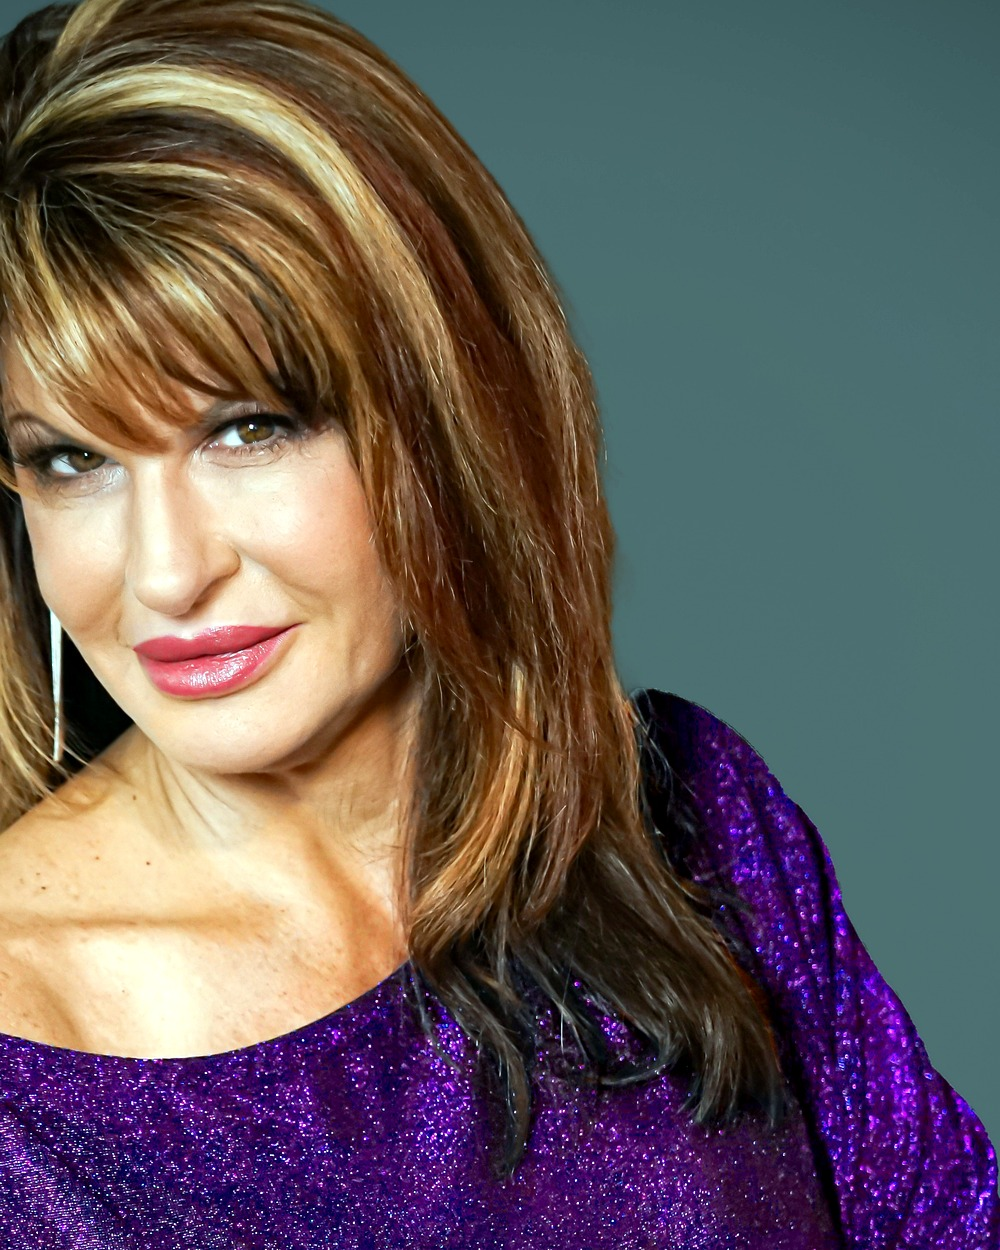
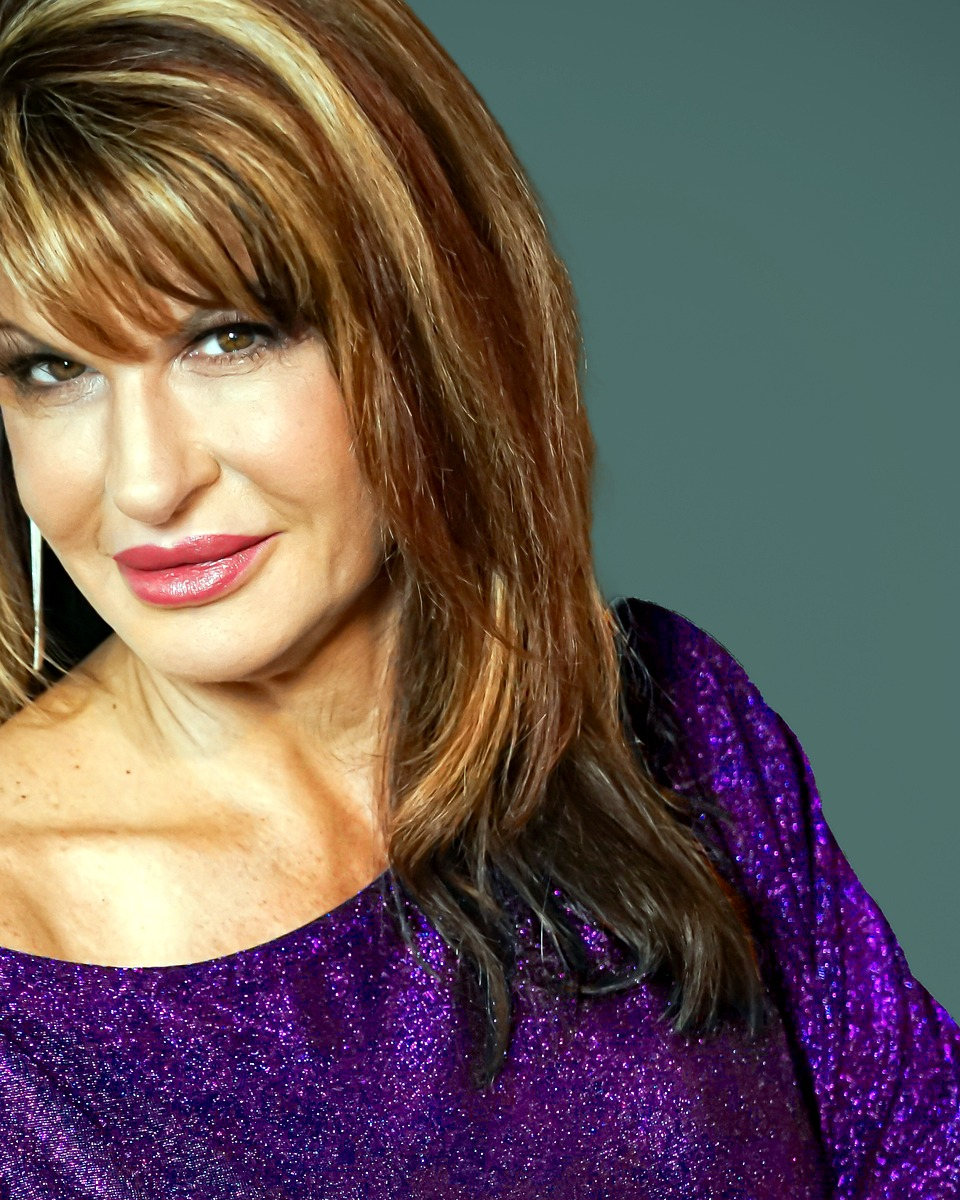
Fix team photo framing, especially Allan.
Re-export official site portraits with a looser head-and-shoulders crop so Allan is not extreme-zoomed and soft.

diff --git a/index.html b/index.html
@@ -12,7 +12,7 @@
   <meta property="og:description" content="Accurate and speedy real estate closings in a professional environment. Voted Best Title Company in West St. Tammany. Call (985) 624-8655.">
   <meta property="og:url" content="https://geauxtitle.com/">
   <script src="https://unpkg.com/@phosphor-icons/web"></script>
-  <link rel="stylesheet" href="styles.css?v=63">
+  <link rel="stylesheet" href="styles.css?v=64">
   <link rel="icon" type="image/png" href="./logo.png">
   <script type="application/ld+json">
   {
@@ -244,7 +244,7 @@
         <div class="team-strip team-strip-2">
           <article class="person anim-child">
             <div class="person-photo">
-              <img class="photo-katie" src="./assets/katie-team.jpg" alt="Kathryn Katie Rushe Beaucoudray, Owner and Managing Partner of Geaux Title" width="960" height="1200" loading="lazy">
+              <img class="photo-katie" src="./assets/katie-team.jpg?v=3" alt="Kathryn Katie Rushe Beaucoudray, Owner and Managing Partner of Geaux Title" width="960" height="1200" loading="lazy">
             </div>
             <div class="person-body">
               <h3>Kathryn “Katie” Rushe Beaucoudray</h3>
@@ -254,7 +254,7 @@
           </article>
           <article class="person anim-child">
             <div class="person-photo">
-              <img class="photo-allan" src="./assets/allan-team.jpg" alt="Allan Beaucoudray, Owner of Geaux Title" width="960" height="1200" loading="lazy">
+              <img class="photo-allan" src="./assets/allan-team.jpg?v=3" alt="Allan Beaucoudray, Owner of Geaux Title" width="960" height="1200" loading="lazy">
             </div>
             <div class="person-body">
               <h3>Allan Beaucoudray</h3>

diff --git a/styles.css b/styles.css
@@ -584,15 +584,17 @@ h1, h2, h3 {
   height: 100%;
   max-width: none;
   object-fit: cover;
-  object-position: center 18%;
+  object-position: center 12%;
   display: block;
   image-rendering: auto;
 }
 .person-photo img.photo-katie {
-  object-position: center 12%;
+  object-position: center 10%;
 }
 .person-photo img.photo-allan {
-  object-position: center 22%;
+  /* Source is already a close headshot — don't zoom further */
+  object-position: center 20%;
+  object-fit: cover;
 }
 .person-avatar {
   aspect-ratio: 16 / 10;
